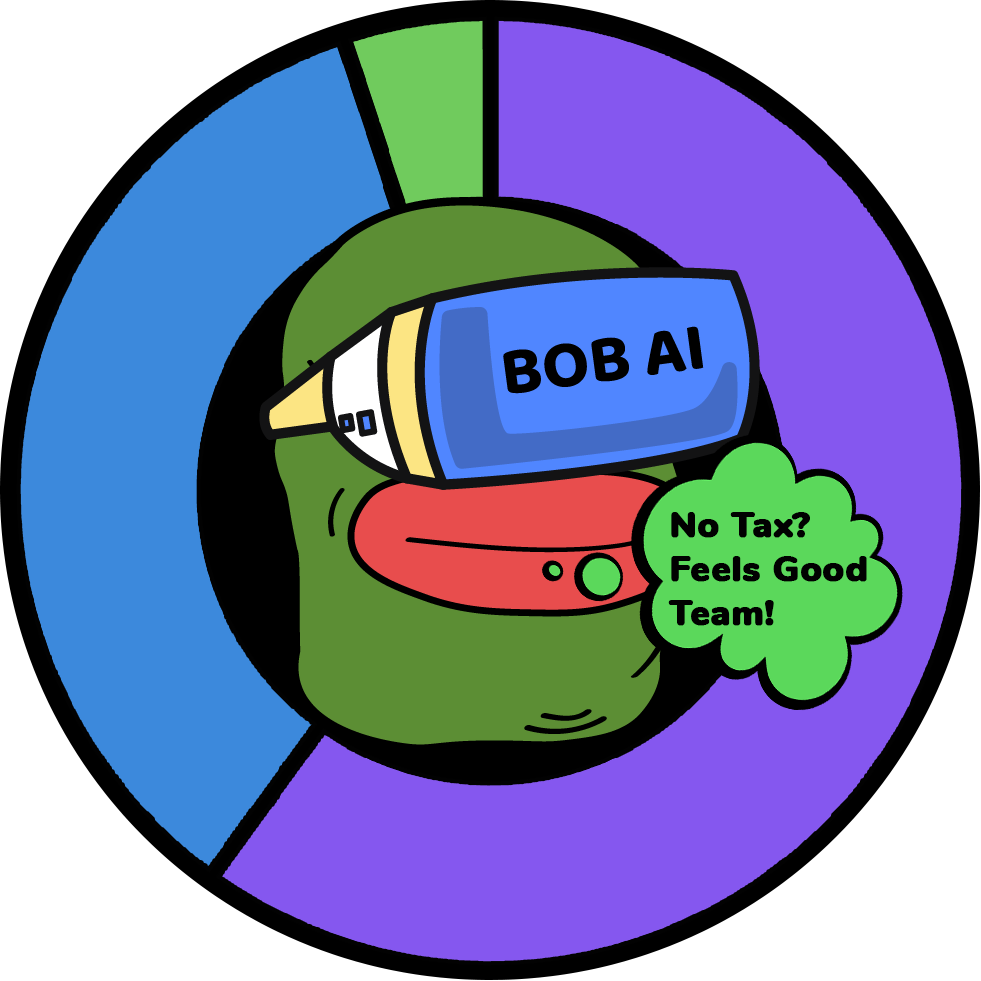
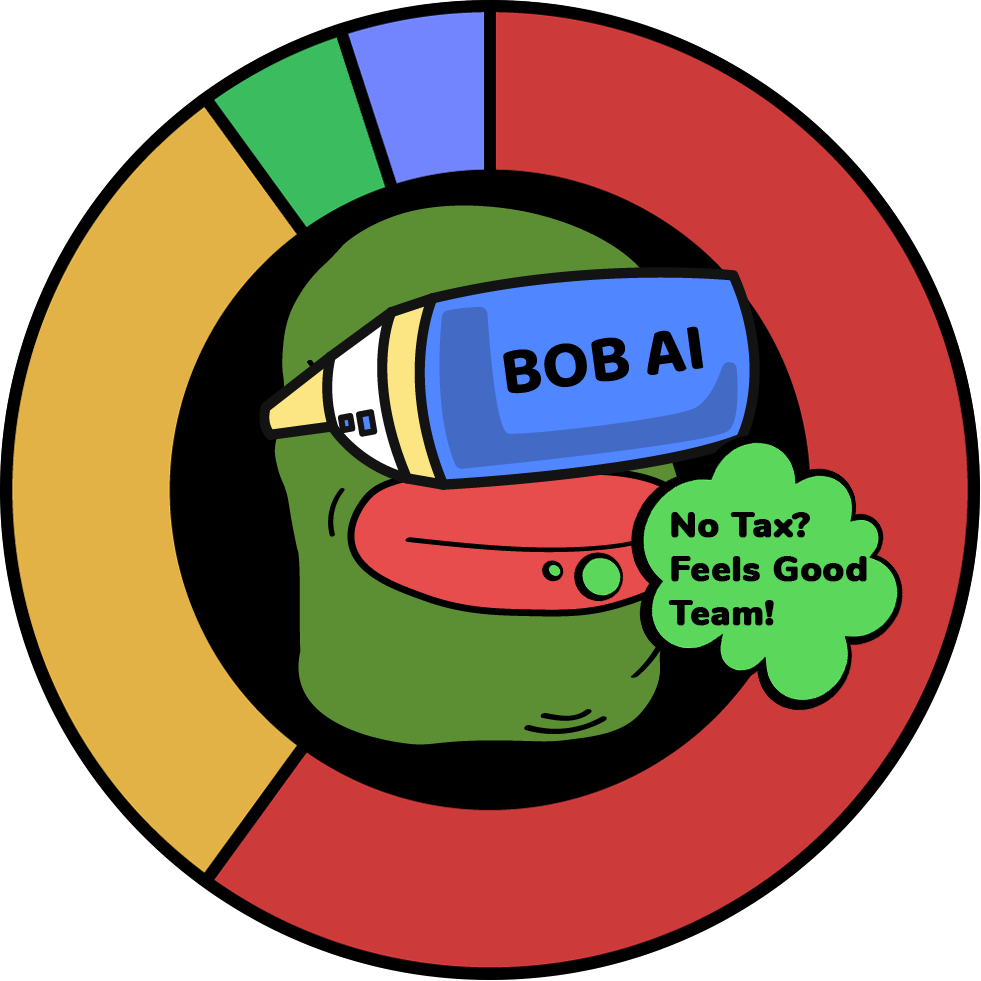
update contract

diff --git a/index.html b/index.html
@@ -265,7 +265,7 @@
 									</div>
 									<div class="tokenomics__line">
 										<div class="tokenomics__name">Total supply</div>
-										<div class="tokenomics__value">1,000,000,000</div>
+										<div class="tokenomics__value">420,000,000,000</div>
 									</div>
 									<div class="tokenomics__line">
 										<div class="tokenomics__name">Decimal</div>
@@ -277,13 +277,13 @@
 									</div>
 									<div class="tokenomics__line">
 										<div class="tokenomics__name">Contract</div>
-										<div class="tokenomics__value tokenomics__value_s">--</div>
+										<div class="tokenomics__value tokenomics__value_s">0x51baA3F61A24D59EF9239009a899B7a65de04AE0</div>
 									</div>
 								</div>
 								<div class="tokenomics__buttons">
 									<a href="#" class="btn" target="_blank">SAFU</a>
 									<a href="#" class="btn" target="_blank">KYC</a>
-									<a href="#" class="btn" target="_blank">Audit</a>
+									<a href="https://github.com/bobaiio/audit/blob/main/20230520_Analytix%20Audit_Bob%20AI_Audit.pdf" class="btn" target="_blank">Audit</a>
 									<a href="#" class="btn" target="_blank">Fair Launch</a>
 								</div>
 							</div>
@@ -291,15 +291,19 @@
 						<div class="tokenomics__values">
 							<div class="tokenomics__valuesblock">
 								<div>
-									<span style="background: #8658ef"></span>
+									<span style="background: #cc3a3b"></span>
 									<p>60% Fair Launch</p>
 								</div>
 								<div>
-									<span style="background: #3c8adc"></span>
-									<p>35% Liquidity</p>
+									<span style="background: #e2b347"></span>
+									<p>30% Liquidity</p>
 								</div>
 								<div>
-									<span style="background: #70cb5d"></span>
+									<span style="background: #3bbc60"></span>
+									<p>5% Staking Rewards</p>
+								</div>
+								<div>
+									<span style="background: #7384ff"></span>
 									<p>5% CEX Listing</p>
 								</div>
 							</div>
@@ -318,7 +322,7 @@
 								</h3>
 							</div>
 						</div>
-						<a href="#" class="overview__video _ibg" data-popup="#video" data-popup-youtube="#">
+						<a href="#" class="overview__video _ibg" data-popup="#video" data-popup-youtube="2gzLguPxNUQ">
 							<img src="img/hero/youtube.jpg" alt="BOB AI Youtube">
 						</a>
 						<a href="#" class="btn overview__btn" target="_blank">Buy BOB AI</a>

diff --git a/css/style.css b/css/style.css
@@ -1574,6 +1574,7 @@ body::after {
 	line-height: 1.2;
 	color: #000000;
 	margin: 0px 0px 30px 0px;
+	word-break: break-word;
 }
 .tokenomics__line:last-child {
 	margin: 0;
@@ -1609,16 +1610,19 @@ body::after {
 @media (max-width: 1360px) {
 	.tokenomics__value_s {
 		font-size: 16px;
+		word-break: break-word;
 	}
 }
 @media (max-width: 1024px) {
 	.tokenomics__value_s {
 		font-size: 14px;
+		word-break: break-word;
 	}
 }
 @media (max-width: 360px) {
 	.tokenomics__value_s {
 		font-size: 12px;
+		word-break: break-word;
 	}
 }
 
